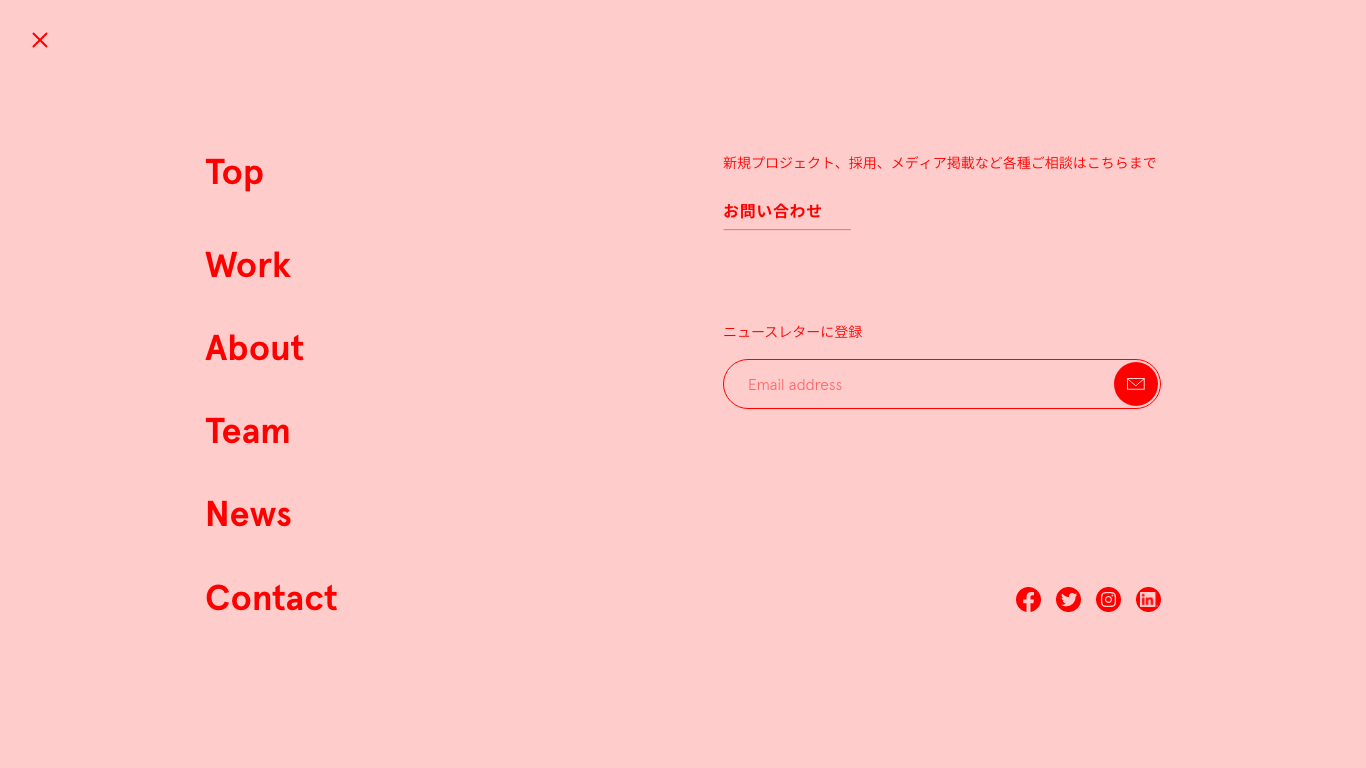
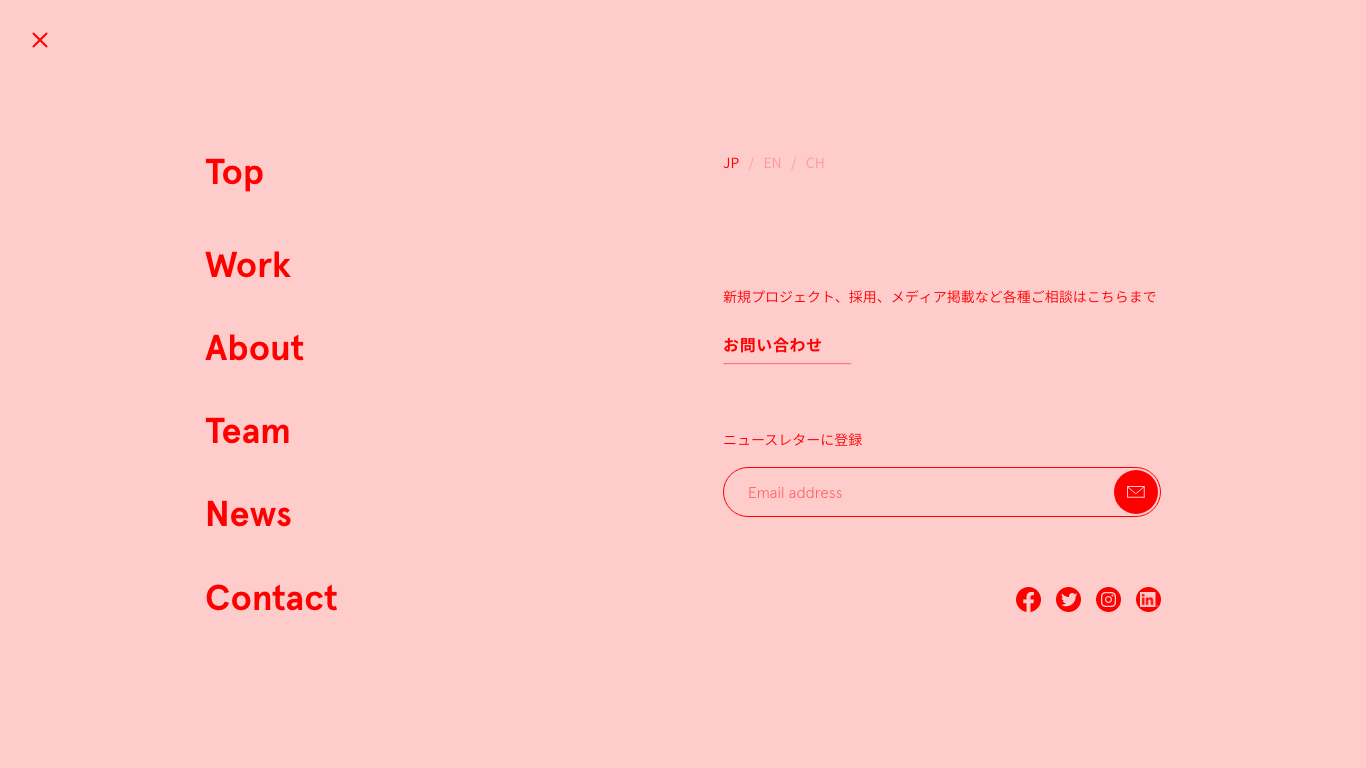
Menu ja

diff --git a/components/ContactForm.tsx b/components/ContactForm.tsx
@@ -1,15 +1,10 @@
 import * as React from 'react'
 import Link from 'next/link'
-import { useRouter } from 'next/router'
-import classNames from 'classnames/bind'
-import { t } from 'lib/i18n'
+import { t, langStyle } from 'lib/i18n'
 
-const ContactForm = () => {
-  const router = useRouter()
-  const langStyle: { [key: string]: any } = {}
-  langStyle[router.locale!] = true;
-  return (
-    <div className={classNames(langStyle)}>
+const ContactForm = () => (
+  <>
+    <div className={langStyle('contact-form')}>
       <div className="text">{t('contactform_contacthere')}</div>
       <div className="contact"><Link href="/contact"><a>{t('contactform_inquiry')}</a></Link></div>
       <div className="newsletter">
@@ -19,71 +14,72 @@ const ContactForm = () => {
           <input className="submit" type="submit" value="" />
         </form>
       </div>
-      <style jsx>{`
-        .text
+    </div>
+    <style jsx>{`
+      .text
+        color white
+        font-size 1.5rem
+        font-weight 300
+        margin-top 4px
+      .contact
+        margin-top 32px
+        a
           color white
+          font-size 1.6rem
+          font-weight bold
+          letter-spacing 0.04em
+          padding-bottom 9px
+          padding-right 28px
+          border-bottom 1px solid white
+      .newsletter
+        margin-top 106px
+        .subscribe
           font-size 1.5rem
           font-weight 300
-          margin-top 4px
+          letter-spacing 0.0em
+          color white
+        form
+          display inline-block
+          margin 0
+          margin-top 18px
+          padding 0
+          border-radius 30px
+          border 1px solid white
+        .email
+          display inline-block
+          color white
+          font-size 1.6rem
+          font-weight 300
+          margin 0
+          padding 14px 24px
+          width 340px
+          border none
+          background-color transparent
+          vertical-align middle
+        .submit
+          margin 2px
+          padding 0
+          width 44px
+          height 44px
+          background-color transparent
+          background-image url(/footer/mail@2x.png)
+          background-size 44px 44px
+          border none
+          vertical-align middle
+          cursor pointer
+      .ja, .zh-hans
+        .text
+          font-size 1.4rem
+          margin-top 0
         .contact
-          margin-top 32px
-          a
-            color white
-            font-size 1.6rem
-            font-weight bold
-            letter-spacing 0.04em
-            padding-bottom 10px
-            padding-right 42px
-            border-bottom 1px solid white
+          margin-top 26px
         .newsletter
-          margin-top 106px
+          margin-top 73px
           .subscribe
-            font-size 1.5rem
-            font-weight 300
-            letter-spacing 0.0em
-            color white
-          form
-            display inline-block
-            margin 0
-            margin-top 18px
-            padding 0
-            border-radius 30px
-            border 1px solid white
-          .email
-            display inline-block
-            color white
-            font-size 1.6rem
-            font-weight 300
-            margin 0
-            padding 14px 24px
-            width 340px
-            border none
-            background-color transparent
-            vertical-align middle
-          .submit
-            margin 2px
-            padding 0
-            width 44px
-            height 44px
-            background-color transparent
-            background-image url(/footer/mail@2x.png)
-            background-size 44px 44px
-            border none
-            vertical-align middle
-            cursor pointer
-        .ja, .zh-hans
-          .text
             font-size 1.4rem
-            margin-top 0
-          .contact
-            margin-top 26px
-          .newsletter
-            margin-top 99px
-            .subscribe
-              font-size 1.4rem
-      `}</style>
-    </div>
-  )
-}
+    `}</style>
+  </>
+)
+
 
 export default ContactForm

diff --git a/components/Menu.tsx b/components/Menu.tsx
@@ -1,6 +1,7 @@
 import { useState } from 'react'
 import Link from 'next/link'
 import classNames from 'classnames/bind'
+import LanguageSelector from 'components/LanguageSelector'
 import ContactForm from 'components/ContactForm'
 import SNSButtons from 'components/SNSButtons'
 
@@ -20,6 +21,7 @@ const Menu = () => {
           <li><Link href="/contact"><a onClick={onclick}>Contact</a></Link></li>
         </ul>
         <div className="contact">
+          <div className="langselect"><LanguageSelector activeColor="white" inactiveColor="#666666" separator="  /  " /></div>
           <ContactForm />
           <div className="sns"><SNSButtons /></div>
         </div>
@@ -30,6 +32,7 @@ const Menu = () => {
       </button>
 
       <style jsx>{`
+        @import 'lib/vw.styl'
         .container
           position fixed
           z-index 10000
@@ -49,7 +52,7 @@ const Menu = () => {
           width calc(100vw - 205px * 2)
           height calc(100vh - 152px * 2)
           padding 152px 205px
-          {/* background-image url(/_/menu_en.png)
+          {/* background-image url(/_/menu_ja.png)
           background-repeat no-repeat */}
           background-color #333333
           ul
@@ -61,17 +64,22 @@ const Menu = () => {
             margin 0
             margin-bottom 47px
             padding 0
-            font-size 36px
+            font-size vwpx_min(36)
             font-weight bold
             &:first-child
-              margin-bottom 57px
+              margin-bottom vwpx_min(57)
             a
               color white
               border none
+          .langselect
+            font-size 1.4rem
+            margin-top 5px
+            letter-spacing 0.06rem
+            margin-bottom 115px
           .sns
             position absolute
             right 205px
-            bottom 156px
+            bottom 152px
         .button
           position relative
           z-index 1

diff --git a/components/LanguageSelector.tsx b/components/LanguageSelector.tsx
@@ -1,28 +1,29 @@
 import { useRouter } from 'next/router'
 import Link from 'next/link'
 
-const LangLink = ({ lang, label }: { lang: string, label: string }) => {
+const LangLink = ({ lang, label, activeColor, inactiveColor }: { lang: string, label: string, activeColor: string, inactiveColor: string }) => {
   const { locale, pathname, query } = useRouter()
   return (
-    <span>
+    <>
       { locale != lang
-        ? <Link href={{ pathname, query }} locale={lang}><a>{label}</a></Link>
-        : <>{label}</>}
+        ? <Link href={{ pathname, query }} locale={lang}><a style={{ color: inactiveColor }}>{label}</a></Link>
+        : <span style={{ color: activeColor }}>{label}</span>}
       <style jsx>{`
-        span
-          color black
         a
-          color #cccccc
           border none
+          padding 0
       `}</style>
-    </span>
+    </>
   )
 }
 
-const LanguageSelector = () => (
+const LanguageSelector = ({ activeColor = 'black', inactiveColor = '#cccccc', separator = ' / ' }: { activeColor?: string, inactiveColor?: string, separator?: string }) => (
   <>
-    <div className="language-selector"><LangLink lang="ja" label="JA" /> / <LangLink lang="en" label="EN" /> / <LangLink lang="zh-hans" label="ZH" /></div>
-
+    <div className="language-selector"><LangLink lang="ja" label="JA" activeColor={activeColor} inactiveColor={inactiveColor} /><span className="sp" style={{ color: inactiveColor }}>{separator}</span><LangLink lang="en" label="EN" activeColor={activeColor} inactiveColor={inactiveColor} /><span className="sp" style={{ color: inactiveColor }}>{separator}</span><LangLink lang="zh-hans" label="ZH" activeColor={activeColor} inactiveColor={inactiveColor} /></div>
+    <style jsx>{`
+      .sp
+        white-space pre
+    `}</style>
   </>
 )
 

diff --git a/components/Layout.tsx b/components/Layout.tsx
@@ -12,7 +12,10 @@ let templateName: string
 // templateName = 'About_detail_01'
 // templateName = 'About_detail_02'
 // templateName = 'About_detail_03'
+// templateName = 'Work_detail'
 // templateName = 'News_detail'
+// templateName = 'Contact'
+// templateName = 'menu'
 
 type Props = {
   showHeader?: boolean
@@ -27,7 +30,7 @@ const Layout = ({ children, footer, title = '', side = '', backto = '', showHead
   const templateStyle: { [prop: string]: string } = {}
   if (templateName) {
     templateStyle.backgroundImage = `url(/_/${templateName}_${useRouter().locale!}.png)`
-    // templateStyle.backgroundPosition = 'top -40px left'
+    // templateStyle.backgroundPosition = 'top -13px left'
   }
   return (
     <div>
